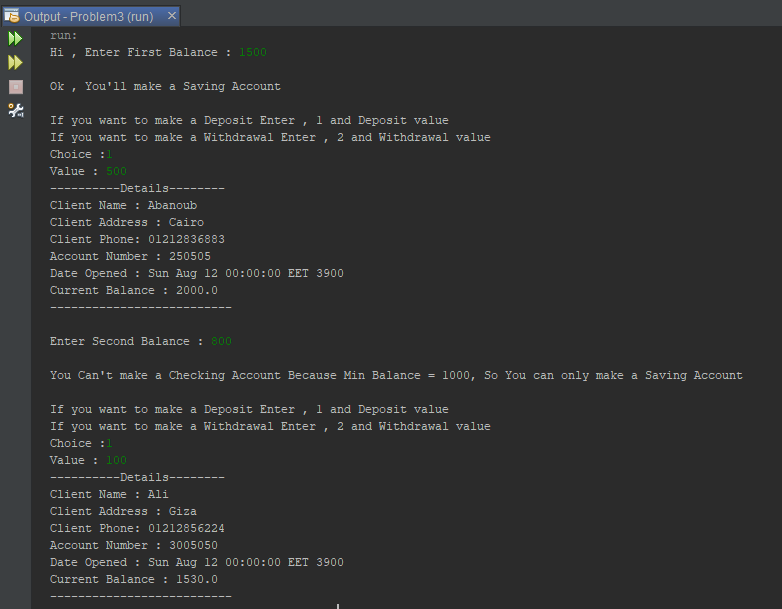
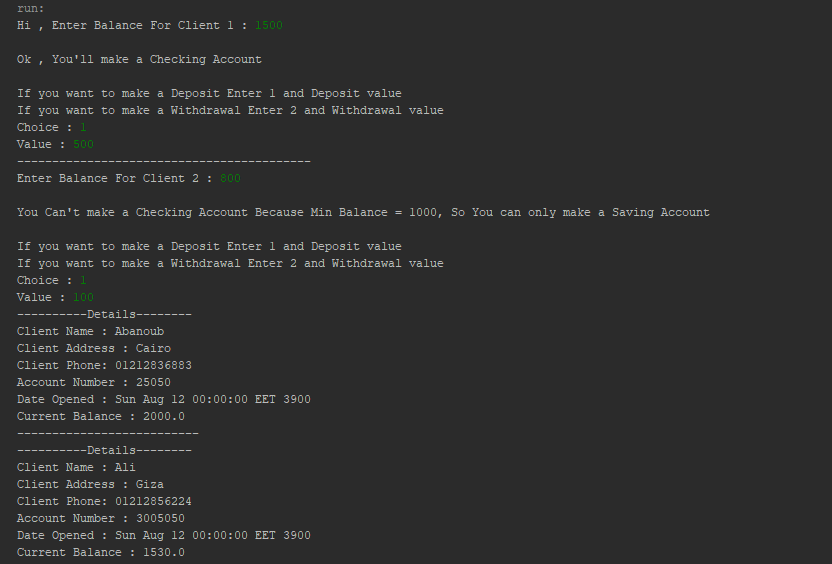
Update Answer to P3

Changed region(s): [[0.0, 0.0, 0.9514, 0.9947], [0.491, 0.3617, 0.8593, 0.3918], [0.2762, 0.5426, 0.3069, 0.5727]]

diff --git a/Assignment1/Problem3/Problem3.java b/Assignment1/Problem3/Problem3.java
@@ -14,67 +14,47 @@ public class Problem3 {
 
         int BALANCE1 , BALANCE2, MinimumBALANCE = 1000 , choice , value;
         sc = new Scanner(System.in);
-        Account Acc1 , Acc2 ;
-        
+        Customer customer1 , customer2 ;
 
-        //======================First Customer ======================
-        System.out.print("Hi , Enter First Balance : ");
+      //======================First Customer ======================
+        System.out.print("Hi , Enter Balance For Client 1 : ");
         BALANCE1 = sc.nextInt();
         
-        if (BALANCE1 < MinimumBALANCE) {
-
+        if (BALANCE1 < MinimumBALANCE)
+        {
             System.out.println("\nYou Can't make a Checking Account Because Min Balance = 1000, So You can only make a Saving Account");
-             Acc1 = new SavingAccount("Abanoub", "Cairo", "01212836883");
-             Acc1.makeAccount(BALANCE1,250505);
-        } else {
-
-            System.out.println("\nOk , You'll make a Saving Account ");
-             Acc1 = new CheckingAccount("Abanoub", "Cairo", "01212836883");
-             Acc1.makeAccount(BALANCE1,250505);
-        }
-        
-        //-----
-        System.out.print("\nIf you want to make a Deposit Enter , 1 and Deposit value\nIf you want to make a Withdrawal Enter , 2 and Withdrawal value\nChoice :");
-        if(sc.nextInt()==1){ 
-            System.out.print("Value : ");
-            Acc1.makeDeposit(sc.nextInt());
+            customer1 = new Customer("Abanoub", "Cairo", "01212836883");
+            customer1.setAccountData("SavingAccount" , BALANCE1 , 25050 );
+            
         } 
-        else{
-            System.out.print("Value : ");
-            Acc1.withdrawal(sc.nextInt());
+        else
+        {
+            System.out.println("\nOk , You'll make a Checking Account ");
+             customer1 = new Customer("Abanoub", "Cairo", "01212836883");
+             customer1.setAccountData("CheckingAccount" , BALANCE1 , 25050 );
         }
-        Acc1.displayData();
         //====================Second Customer =====================
         
-        System.out.print("\nEnter Second Balance : ");
+        System.out.print("------------------------------------------\nEnter Balance For Client 2 : ");
         BALANCE2 = sc.nextInt();
 
-        if (BALANCE2 < MinimumBALANCE) {
+        if (BALANCE2 < MinimumBALANCE)
+        {
 
             System.out.println("\nYou Can't make a Checking Account Because Min Balance = 1000, So You can only make a Saving Account");
-             Acc2 = new SavingAccount("Ali", "Giza", "01212856224");
-             Acc2.makeAccount(BALANCE2,3005050);
-        } else {
-
-            System.out.println("\nOk , You'll make a Saving Account ");
-             Acc2 = new CheckingAccount("Ali", "Giza", "01212856224");
-             Acc2.makeAccount(BALANCE2,3005050);
-        }
-        
-        //-----
-        System.out.print("\nIf you want to make a Deposit Enter , 1 and Deposit value\nIf you want to make a Withdrawal Enter , 2 and Withdrawal value\nChoice :");
-        if(sc.nextInt()==1){ 
-            System.out.print("Value : ");
-            Acc2.makeDeposit(sc.nextInt());
+             customer2 = new Customer("Ali", "Giza", "01212856224");
+             customer2.setAccountData("SavingAccount" ,BALANCE2,3005050);
         } 
-        else{
-            System.out.print("Value : ");
-            Acc2.withdrawal(sc.nextInt());
+        else
+        {
+
+            System.out.println("\nOk , You'll make a Checking Account ");
+             customer2 = new Customer("Ali", "Giza", "01212856224");
+             customer2.setAccountData("CheckingAccount" ,BALANCE2,3005050);
         }
-        Acc2.displayData();
-        //==============================================================
-        
-        
+        //===========
+        customer1.displayData();
+        customer2.displayData();
     }
 
 }

diff --git a/Assignment1/Problem3/Customer.java b/Assignment1/Problem3/Customer.java
@@ -10,20 +10,55 @@ public class Customer {
     private String name ;
     private String address ;
     private String phone ;
-    Account account ;
+    public Account account ;
 
     public Customer(String name , String address , String phone) {
         this.name = name ;
         this.address = address ;
         this.phone = phone ;
+   
     }
 
- 
+    public void setAccountData(String accountType , int balance , int accountNumber){
+        
+        if(accountType == "SavingAccount"){
+            account = new SavingAccount(balance , accountNumber);
+            
+        }
+        else {
+            account = new CheckingAccount(balance , accountNumber);
+        }
+    }
+    
+     public void displayData(){
+        System.out.println("----------Details--------\nClient Name : "+getName());
+        System.out.println("Client Address : "+getAddress());
+        System.out.println("Client Phone: "+getPhone());
+        System.out.println("Account Number : "+account.accountNumber);
+        System.out.println("Date Opened : "+account.dateOpened); 
+        System.out.println("Current Balance : "+account.displayCurrentBalance());
+        System.out.println("--------------------------");
+       // System.out.println("\n--------------------------------------------");
+    }
 
     public void setAccount(Account account) {
         this.account = account;
     }
 
+    public void setName(String name) {
+        this.name = name;
+    }
+
+    public void setAddress(String address) {
+        this.address = address;
+    }
+
+    public void setPhone(String phone) {
+        this.phone = phone;
+    }
+
+    
+    
     public String getName() {
         return name;
     }

diff --git a/Assignment1/Problem3/Account.java b/Assignment1/Problem3/Account.java
@@ -23,17 +23,6 @@ public abstract class Account {
         this.accountNumber = accountNumber ;
     }
     
-    public void displayData(){
-        System.out.println("----------Details--------\nClient Name : "+customer.getName());
-        System.out.println("Client Address : "+customer.getAddress());
-        System.out.println("Client Phone: "+customer.getPhone());
-        System.out.println("Account Number : "+accountNumber);
-        System.out.println("Date Opened : "+dateOpened); 
-        System.out.println("Current Balance : "+displayCurrentBalance());
-        System.out.println("--------------------------");
-       // System.out.println("\n--------------------------------------------");
-    }
-    
     public void makeDeposit(float salary){
         balance+=salary ;
     }
@@ -41,8 +30,23 @@ public abstract class Account {
     public void withdrawal(float salary){
         balance-=salary ;
     }
+
     
-    
+    public void checkRequest(){
+        System.out.print("\nIf you want to make a Deposit Enter 1 and Deposit value\nIf you want to make a Withdrawal Enter 2 and Withdrawal value\nChoice : ");
+      
+        if(Problem3.sc.nextInt()==1){ 
+            System.out.print("Value : ");
+            makeDeposit(Problem3.sc.nextInt());
+        } 
+        else if(Problem3.sc.nextInt()==2){
+            System.out.print("Value : ");
+            withdrawal(Problem3.sc.nextInt());
+        }
+        else{
+            System.out.print("Your request is invalid ");
+        }
+    }
 
     public void setAccountNumber(int accountNumber) {
         this.accountNumber = accountNumber;

diff --git a/Assignment1/Problem3/CheckingAccount.java b/Assignment1/Problem3/CheckingAccount.java
@@ -10,12 +10,12 @@ public class CheckingAccount extends Account{
     private float minimumBalance ;
     
     
-    CheckingAccount(String name , String address , String phone){
+    CheckingAccount(int balance , int accountNmber){
         
-        customer = new Customer (name , address, phone) ;
-       
+        this.balance = balance ;
+        this.accountNumber = accountNmber ;
+        checkRequest();
     }
-
     
 
     @Override

diff --git a/Assignment1/Problem3/SavingAccount.java b/Assignment1/Problem3/SavingAccount.java
@@ -9,11 +9,13 @@ public class SavingAccount extends Account{
     
     private float interestRate = 0.7f ; 
 
-    SavingAccount(String name , String address , String phone){
+    SavingAccount(int balance , int accountNmber){
         
-        customer = new Customer (name , address, phone) ;
-        
+        this.balance = balance ;
+        this.accountNumber = accountNmber ;
+        checkRequest();
     }
+    
     
     
     
